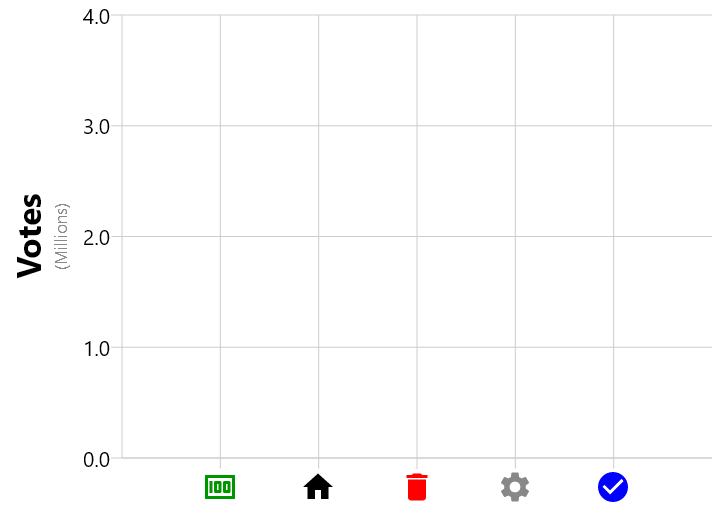
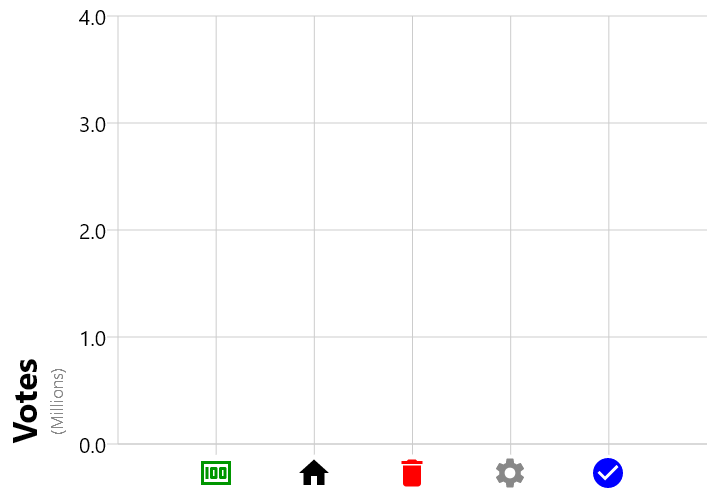
Update to align with latest 0.5.0-dev2 changes.

diff --git a/examples/src/jvmMain/kotlin/io/github/koalaplot/example/CategoryAxis2.kt b/examples/src/jvmMain/kotlin/io/github/koalaplot/example/CategoryAxis2.kt
@@ -1,5 +1,7 @@
 package io.github.koalaplot.example
 
+import androidx.compose.foundation.layout.Box
+import androidx.compose.foundation.layout.fillMaxHeight
 import androidx.compose.foundation.layout.padding
 import androidx.compose.material.icons.Icons
 import androidx.compose.material.icons.filled.CheckCircle
@@ -11,6 +13,7 @@ import androidx.compose.material3.Icon
 import androidx.compose.material3.MaterialTheme
 import androidx.compose.material3.Text
 import androidx.compose.runtime.Composable
+import androidx.compose.ui.Alignment
 import androidx.compose.ui.Modifier
 import androidx.compose.ui.graphics.Color
 import androidx.compose.ui.graphics.vector.ImageVector
@@ -45,11 +48,13 @@ fun main() = singleWindowApplication {
         xAxisTitle = {},
         yAxisLabels = { Text(it.toString()) },
         yAxisTitle = {
-            Text(
-                yAxisTitle,
-                modifier = Modifier.rotateVertically(VerticalRotation.COUNTER_CLOCKWISE)
-                    .padding(bottom = KoalaPlotTheme.sizes.gap)
-            )
+            Box(modifier = Modifier.fillMaxHeight(), contentAlignment = Alignment.BottomCenter) {
+                Text(
+                    yAxisTitle,
+                    modifier = Modifier.rotateVertically(VerticalRotation.COUNTER_CLOCKWISE)
+                        .padding(bottom = KoalaPlotTheme.sizes.gap)
+                )
+            }
         },
         modifier = Modifier.padding(16.dp)
     ) {

diff --git a/content/en/docs/xygraphs/_index.md b/content/en/docs/xygraphs/_index.md
@@ -91,11 +91,13 @@ A {{< api pkg="xygraph" sym="CategoryAxisModel" >}}CategoryAxisModel{{< /api >}}
 
 Axis titles and labels are provided by Composable functions as parameters to ```XYGraph```. That enables a high degree of customizability, since, for example, axis labels do not need to all be the same color, and can even be non-text items like images or icons, as shown in the following example.
 
-{{% example "/examples/src/jvmMain/kotlin/io/github/koalaplot/example/CategoryAxis2.kt" 31 71 %}}
+{{% example "/examples/src/jvmMain/kotlin/io/github/koalaplot/example/CategoryAxis2.kt" 34 76 %}}
 ![Icon Categories](CategoryAxis2.png)
 {{% /example %}}
 
-In addition to using icons with varying colors for the x-axis labels, the above example also uses a custom ```AnnotatedString``` for the y-axis title.
+In addition to using icons with varying colors for the x-axis labels, the above example also uses a custom ```AnnotatedString``` for the y-axis title and demonstrates aligning it along the axis.
+
+When providing a Composable for an axis title, the available space will be the graph height for y-axis titles and the graph width for x-axis titles. Typical layout methods are used to position the title content within this space. In this example, Box was used to align the content to the bottom of the y-axis.
 
 A common requirement is to rotate the x-axis labels to accommodate long, closely spaced, labels. Axis label rotation can be specified through the AxisStyle, as shown in the below example:
 
